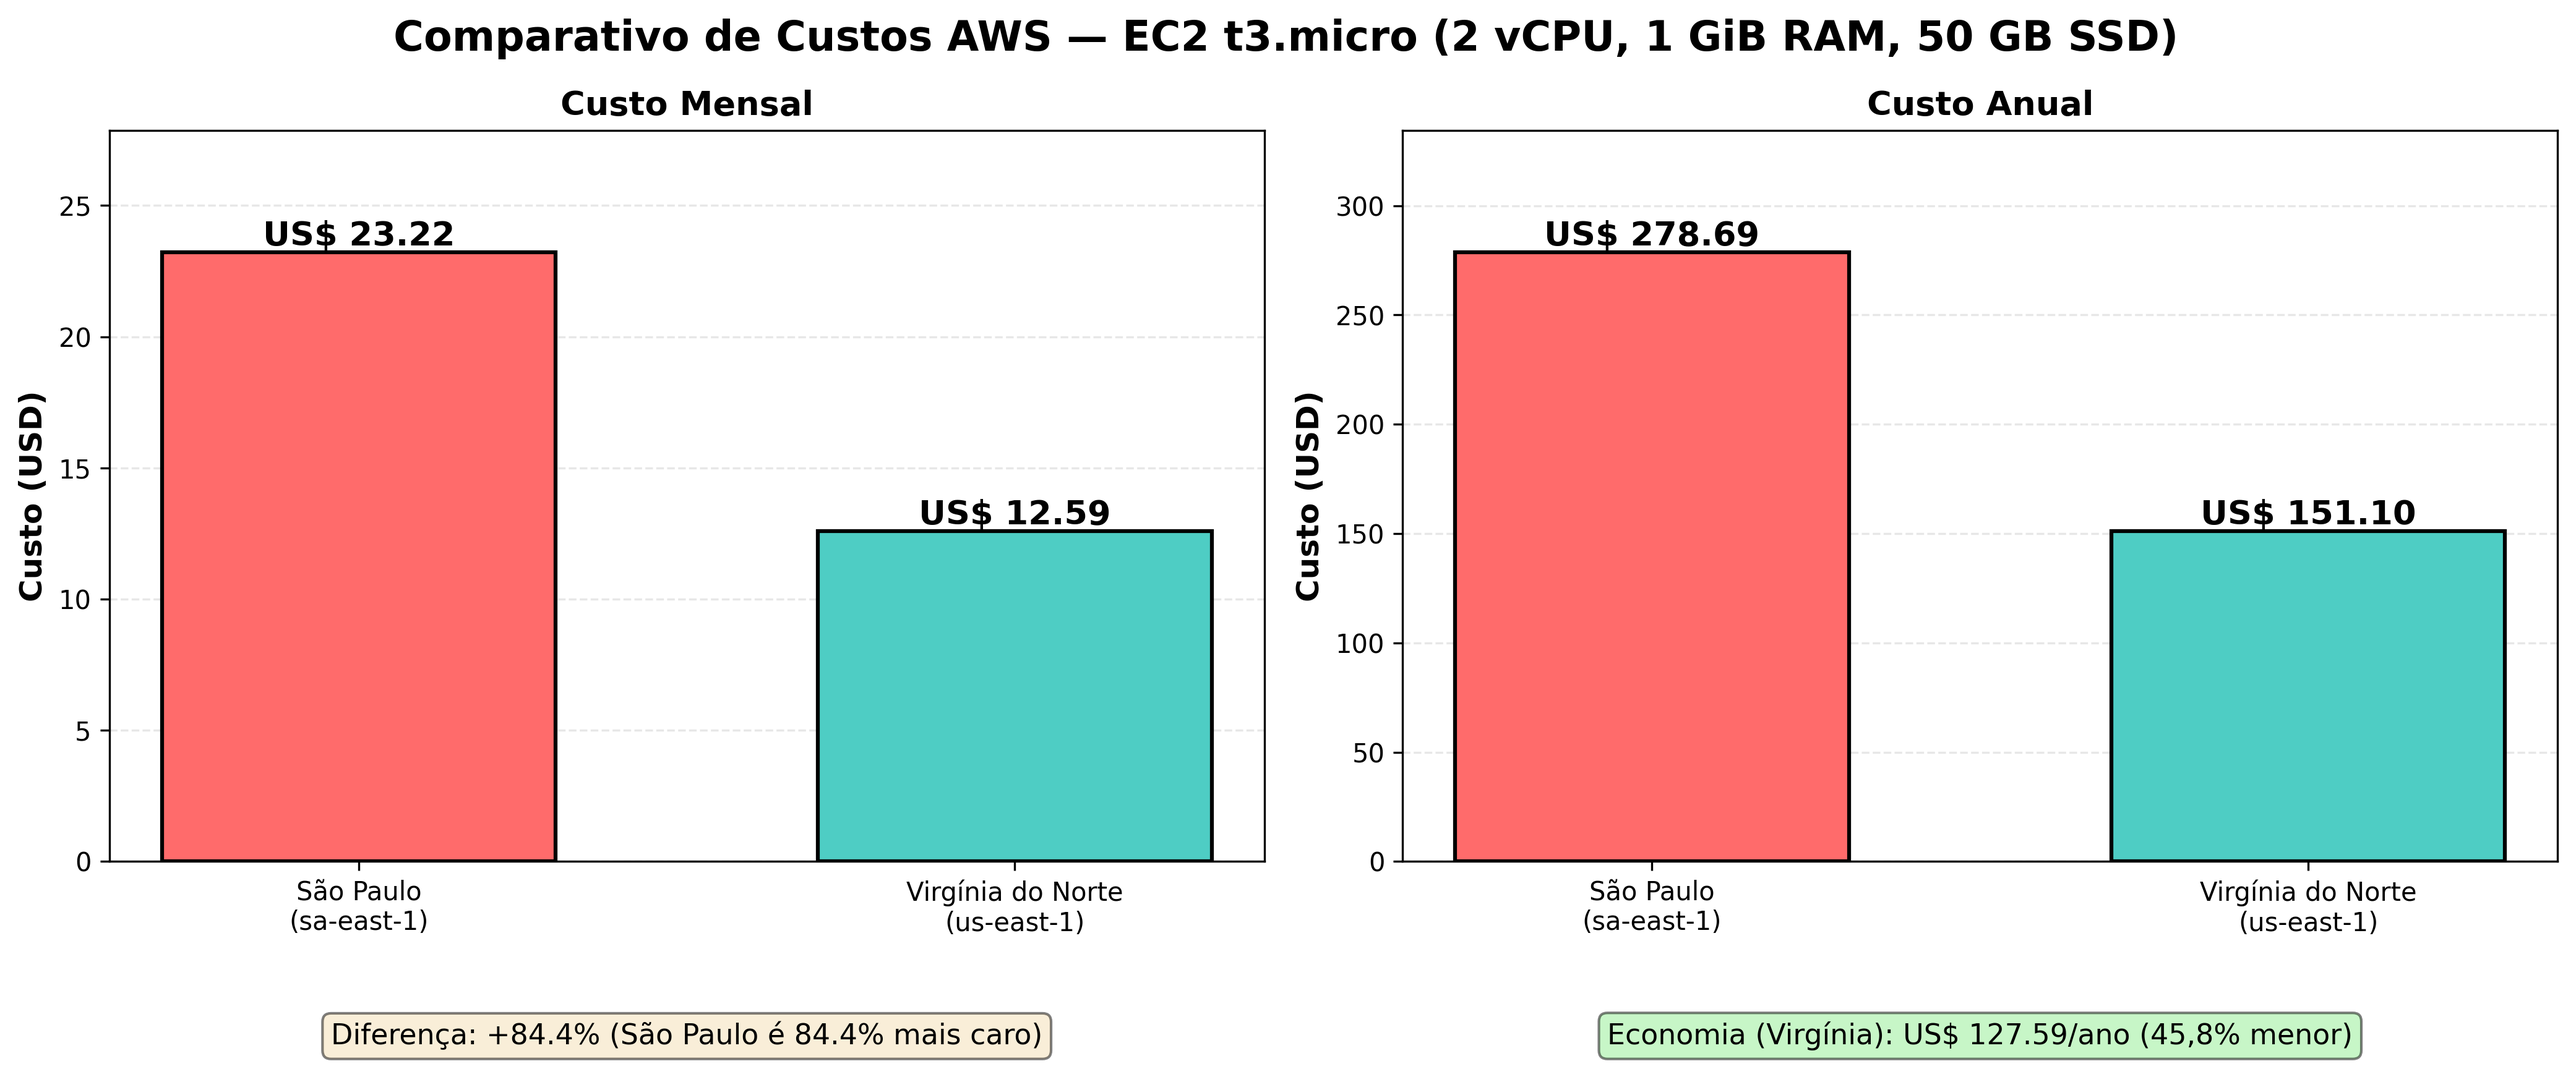
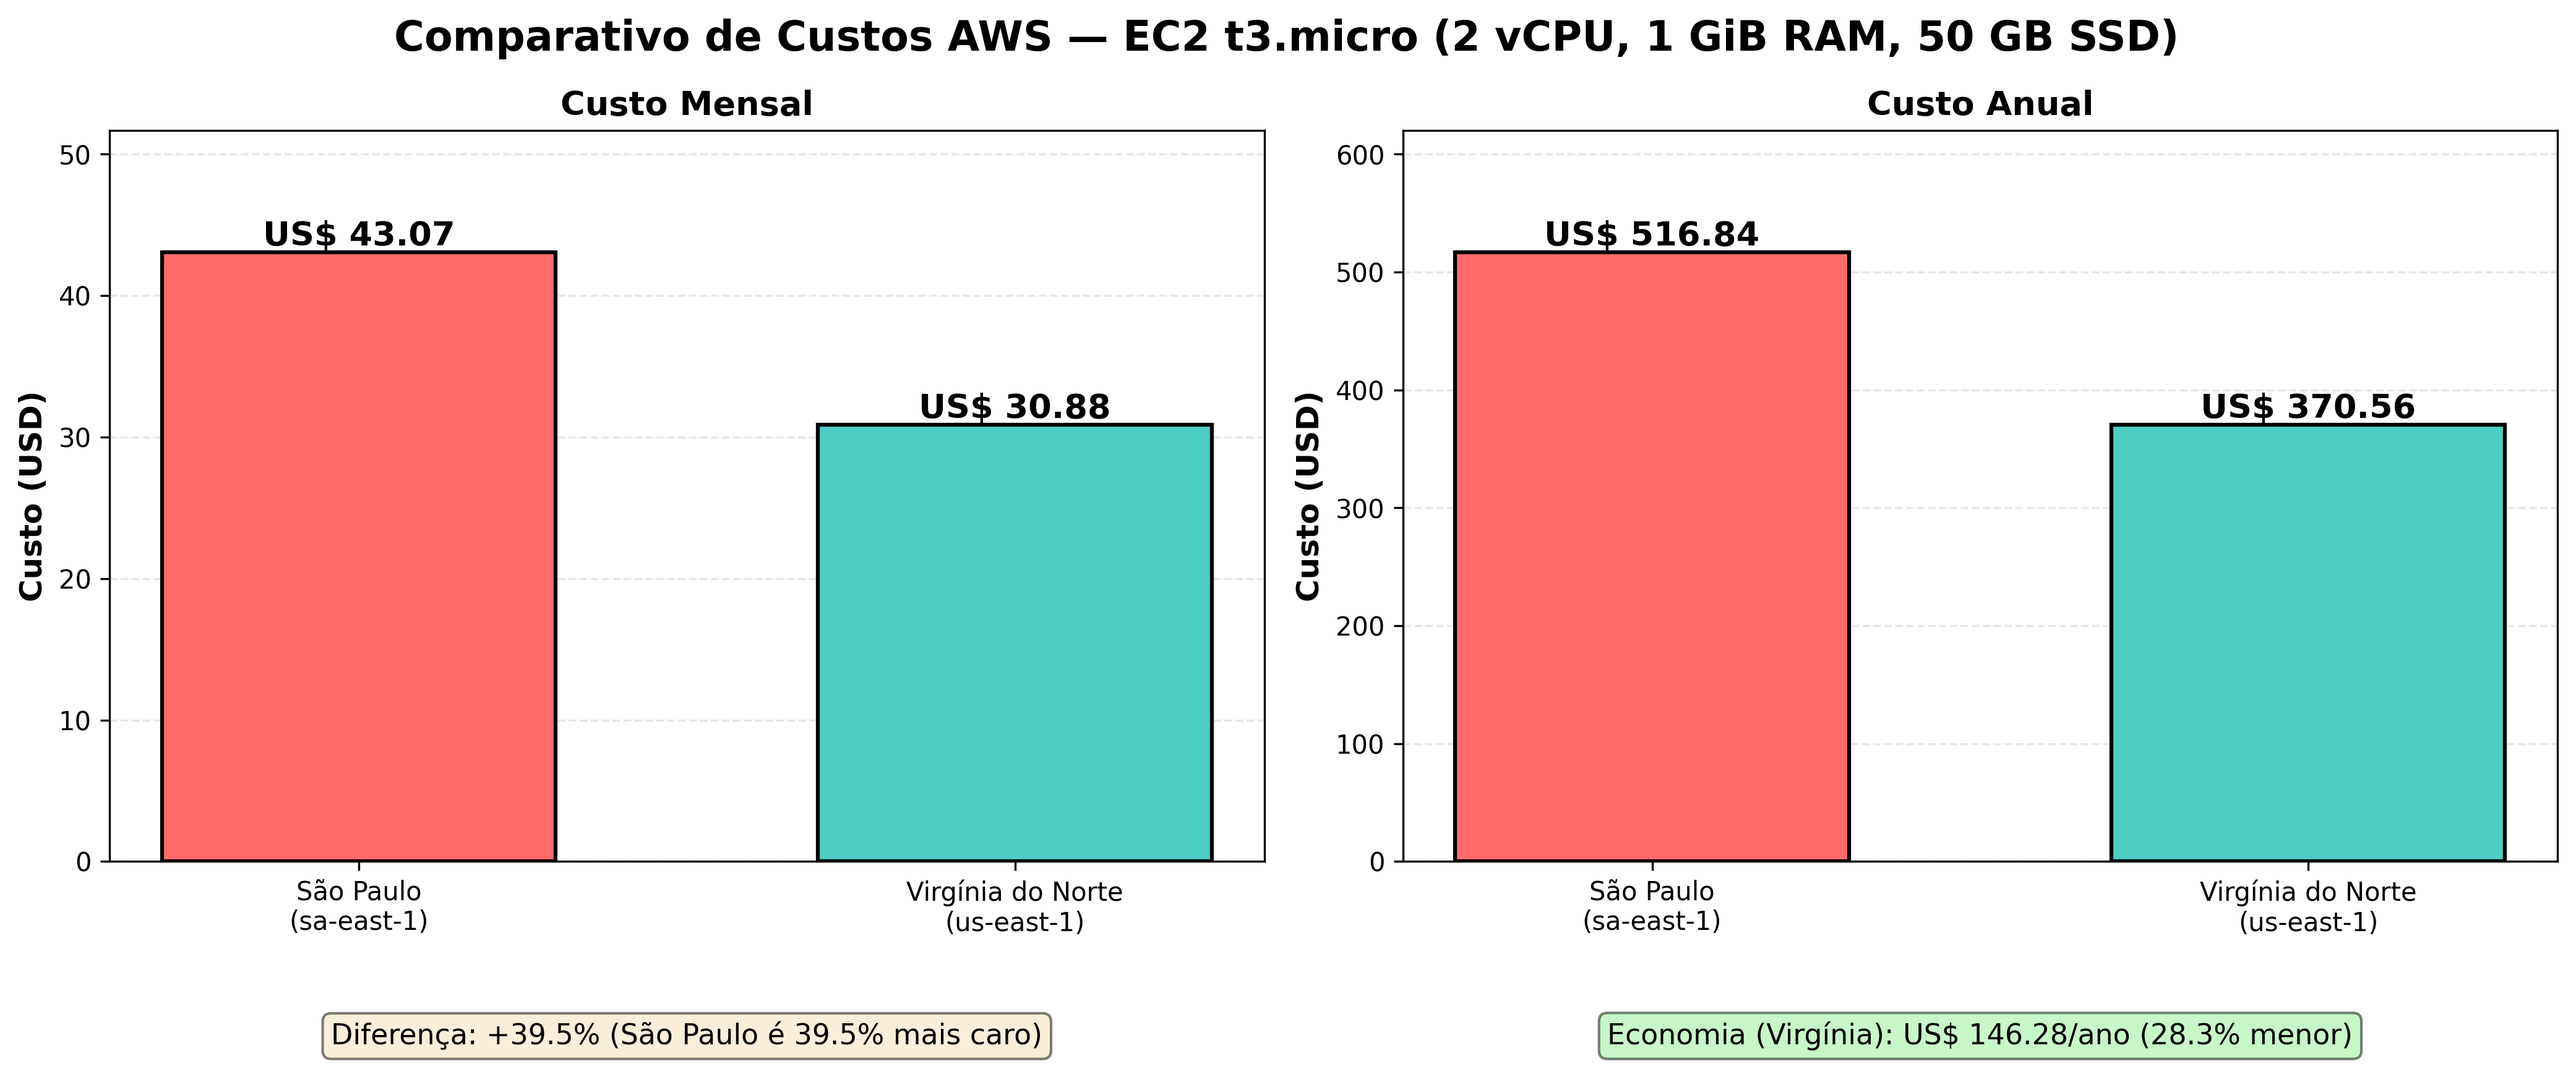
docs: atualizar comparativos AWS, link do vídeo e assets de apresentação

diff --git a/src/esp32/simulator.py b/src/esp32/simulator.py
@@ -1,0 +1,86 @@
+import json
+import random
+import time
+from datetime import datetime, timezone
+from typing import Dict, Optional, Tuple
+from urllib import error, request
+
+
+def validate_reading(data: Dict) -> Tuple[bool, Optional[str]]:
+    required = ["device_id", "timestamp", "temperatura", "umidade_ar", "umidade_solo_raw"]
+    for key in required:
+        if key not in data:
+            return False, f"campo ausente: {key}"
+
+    if not (-20 <= data["temperatura"] <= 70):
+        return False, "temperatura fora da faixa"
+    if not (0 <= data["umidade_ar"] <= 100):
+        return False, "umidade do ar fora da faixa"
+    if not (0 <= data["umidade_solo_raw"] <= 4095):
+        return False, "umidade do solo raw fora da faixa"
+
+    return True, None
+
+
+class ESP32FarmSimulator:
+    def __init__(self, device_id: str = "ESP32_FARM_001"):
+        self.device_id = device_id
+        self.sequence = 0
+
+    def read_once(self) -> Dict:
+        self.sequence += 1
+
+        payload = {
+            "device_id": self.device_id,
+            "seq": self.sequence,
+            "timestamp": datetime.now(timezone.utc).isoformat(),
+            "temperatura": round(random.uniform(18.0, 36.0), 2),
+            "umidade_ar": round(random.uniform(35.0, 95.0), 2),
+            "umidade_solo_raw": random.randint(900, 3200),
+        }
+
+        ok, error_message = validate_reading(payload)
+        payload["valid"] = ok
+        if not ok:
+            payload["error"] = error_message
+
+        return payload
+
+
+def post_json(url: str, payload: Dict, timeout: int = 10) -> Tuple[bool, str]:
+    body = json.dumps(payload).encode("utf-8")
+    req = request.Request(url=url, data=body, method="POST")
+    req.add_header("Content-Type", "application/json")
+
+    try:
+        with request.urlopen(req, timeout=timeout) as response:
+            return True, f"HTTP {response.status}"
+    except error.HTTPError as exc:
+        return False, f"HTTP {exc.code}"
+    except Exception as exc:
+        return False, f"erro: {exc}"
+
+
+def run(endpoint: str, interval_seconds: int = 10, max_readings: int = 10):
+    simulator = ESP32FarmSimulator()
+
+    print("=== Simulador ESP32 FarmTech ===")
+    print(f"Endpoint: {endpoint}")
+    print(f"Intervalo: {interval_seconds}s | Leituras: {max_readings}")
+
+    for _ in range(max_readings):
+        packet = simulator.read_once()
+        print(f"\n[Leitura {packet['seq']}] {json.dumps(packet, ensure_ascii=False)}")
+
+        if packet["valid"]:
+            ok, result = post_json(endpoint, packet)
+            print(f"Envio: {'OK' if ok else 'FALHA'} | {result}")
+        else:
+            print("Envio: ignorado (payload inválido)")
+
+        time.sleep(interval_seconds)
+
+
+if __name__ == "__main__":
+    API_ENDPOINT = "http://localhost:8000/sensores"
+    run(endpoint=API_ENDPOINT, interval_seconds=5, max_readings=5)

diff --git a/scripts/gerar_graficos_aws.py b/scripts/gerar_graficos_aws.py
@@ -9,13 +9,11 @@ Gera PNG mostrando:
 """
 
 import matplotlib.pyplot as plt
-import numpy as np
-from pathlib import Path
 
-# Dados de custos (em USD)
+# Dados de custos (em USD) extraídos dos prints da AWS Pricing Calculator
 regions = ['São Paulo\n(sa-east-1)', 'Virgínia do Norte\n(us-east-1)']
-custos_mensais = [23.22, 12.59]
-custos_anuais = [278.69, 151.10]
+custos_mensais = [43.07, 30.88]
+custos_anuais = [516.84, 370.56]
 
 # Configuração da figura
 fig, axes = plt.subplots(1, 2, figsize=(14, 6))
@@ -64,7 +62,8 @@ ax2.set_axisbelow(True)
 
 # Economia anual
 economia = custos_anuais[0] - custos_anuais[1]
-ax2.text(0.5, -0.25, f'Economia (Virgínia): US$ {economia:.2f}/ano (45,8% menor)',
+economia_pct = ((custos_anuais[0] - custos_anuais[1]) / custos_anuais[0]) * 100
+ax2.text(0.5, -0.25, f'Economia (Virgínia): US$ {economia:.2f}/ano ({economia_pct:.1f}% menor)',
          transform=ax2.transAxes, ha='center', fontsize=11,
          bbox=dict(boxstyle='round', facecolor='lightgreen', alpha=0.5))
 
@@ -84,12 +83,12 @@ ax.axis('off')
 # Dados da tabela
 table_data = [
     ['Critério', 'São Paulo (sa-east-1)', 'Virgínia do Norte (us-east-1)'],
-    ['Custo mensal', 'US$ 23.22', 'US$ 12.59 ✅'],
-    ['Custo anual', 'US$ 278.69', 'US$ 151.10 ✅'],
-    ['Economia anual', '—', 'US$ 127.59 (45.8% menor) ✅'],
-    ['Latência para Brasil', '~5 ms ✅', '~130 ms ❌'],
-    ['Conformidade LGPD', '✅ Nativa', '⚠ Requer análise'],
-    ['Soberania dos dados', '✅ Brasil', '❌ Exterior'],
+    ['Custo mensal', 'US$ 43.07', 'US$ 30.88 (menor)'],
+    ['Custo anual', 'US$ 516.84', 'US$ 370.56 (menor)'],
+    ['Economia anual', '—', 'US$ 146.28 (28.3% menor)'],
+    ['Latência para Brasil', '~5 ms (melhor)', '~130 ms (pior)'],
+    ['Conformidade LGPD', 'Nativa', 'Requer análise adicional'],
+    ['Soberania dos dados', 'Dados no Brasil', 'Dados no exterior'],
 ]
 
 # Cores para linhas alternadas

diff --git a/README.md b/README.md
@@ -56,7 +56,7 @@ Comparação entre as regiões **São Paulo (sa-east-1)** e **Virgínia do Norte
 | Entrega | Vídeo | Duração |
 |---------|-------|---------|
 | Entrega 1 — Machine Learning | [🎬 Assistir no YouTube](https://youtube.com/LINK_DO_VIDEO_1) | ≤ 5 min |
-| Entrega 2 — AWS Cloud | [🎬 Assistir no YouTube](https://youtube.com/LINK_DO_VIDEO_2) | ≤ 5 min |
+| Entrega 2 — AWS Cloud | [🎬 Assistir no YouTube](https://youtu.be/xAOtlSShT0I) | ≤ 5 min |
 
 ---
 
@@ -155,14 +155,12 @@ jupyter notebook src/PhellypeMatheusGiacoiaFlaibamMassarente_rm566826_pbl_fase4.
 |---------|:--------------------:|:-----------------------------:|
 | **Instância EC2** | `t3.micro` | `t3.micro` |
 | vCPUs / RAM | 2 vCPUs / 1 GiB | 2 vCPUs / 1 GiB |
-| **Custo EC2/hora** | US$ 0,0188 | US$ 0,0104 |
-| **Custo EC2/mês** (730h) | US$ 13,72 | US$ 7,59 |
-| **Armazenamento EBS** 50 GB (HDD gp2) | US$ 9,50 | US$ 5,00 |
-| **Total mensal** | **US$ 23,22** | **US$ 12,59** |
-| **Total anual** | **US$ 278,69** | **US$ 151,10** |
-| **Economia anual** (vs SP) | — | 🟢 US$ 127,59 (45,8% menor) |
+| **Custo inicial** | US$ 0,00 | US$ 0,00 |
+| **Total mensal** (AWS Calculator) | **US$ 43,07** | **US$ 30,88** |
+| **Total anual** (12 months) | **US$ 516,84** | **US$ 370,56** |
+| **Economia anual** (vs SP) | — | 🟢 US$ 146,28 (28,3% menor) |
 
-> **Fonte:** AWS Pricing — EC2 On-Demand Linux, instância `t3.micro` (2 vCPU, 1 GiB RAM), armazenamento EBS gp2 50 GB, 100% utilização mensal (730 horas).
+> **Fonte:** Capturas da AWS Pricing Calculator em `assets/AWS São Paulo (BR).png` e `assets/AWS Virgínia do Norte (EUA).png` (estimativa com Amazon EC2 na calculadora).
 
 <p align="center">
   <img src="assets/tabela_comparativa_aws.png" alt="Tabela Comparativa de Custos AWS" width="90%">
@@ -178,7 +176,7 @@ jupyter notebook src/PhellypeMatheusGiacoiaFlaibamMassarente_rm566826_pbl_fase4.
 
 #### 💰 Qual a solução mais barata?
 
-A região **Virgínia do Norte (us-east-1)** é **45,8% mais barata**: US$ 12,59/mês vs US$ 23,22/mês de São Paulo — uma economia de **US$ 127,59/ano**. Isso ocorre porque:
+A região **Virgínia do Norte (us-east-1)** é **28,3% mais barata**: US$ 30,88/mês vs US$ 43,07/mês de São Paulo — uma economia de **US$ 146,28/ano**. Isso ocorre porque:
 - A AWS opera data centers na Virgínia desde 2006 com infraestrutura altamente consolidada e custos operacionais menores.
 - A região us-east-1 tem o maior volume de clientes AWS do mundo, diluindo os custos fixos de operação.
 - O Brasil enfrenta custos mais altos de energia, impostos sobre importação de equipamentos e infraestrutura de conectividade.
@@ -187,7 +185,7 @@ A região **Virgínia do Norte (us-east-1)** é **45,8% mais barata**: US$ 12,59
 
 | Critério | São Paulo (sa-east-1) | Virgínia do Norte (us-east-1) |
 |----------|:---------------------:|:-----------------------------:|
-| Custo mensal | US$ 23,22 | US$ 12,59 ✅ |
+| Custo mensal | US$ 43,07 | US$ 30,88 ✅ |
 | Latência para sensores no Brasil | ~5 ms ✅ | ~130 ms ❌ |
 | Conformidade LGPD | ✅ Nativa | ⚠ Requer análise |
 | Soberania dos dados | ✅ Dados no Brasil | ❌ Dados no exterior |
@@ -201,12 +199,12 @@ A região **Virgínia do Norte (us-east-1)** é **45,8% mais barata**: US$ 12,59
 
 #### ✅ Decisão Final: **São Paulo (sa-east-1)**
 
-Apesar do custo 45,8% superior, a região São Paulo é a escolha **tecnicamente e legalmente recomendada** para este projeto, pelos seguintes motivos:
+Apesar do custo 39,5% superior, a região São Paulo é a escolha **tecnicamente e legalmente recomendada** para este projeto, pelos seguintes motivos:
 
 - **Conformidade LGPD nativa** — sem necessidade de mecanismos jurídicos adicionais para transferência internacional de dados.
 - **Latência mínima** (~5 ms) — essencial para o processamento em tempo real dos dados dos sensores IoT no campo.
 - **Soberania dos dados agrícolas** — informações estratégicas da fazenda permanecem sob jurisdição brasileira.
-- **Custo adicional justificado** — a diferença de US$ 127,59/ano (~R$ 640/ano) é insignificante frente ao custo de adequação regulatória e ao risco operacional de alta latência.
+- **Custo adicional justificado** — a diferença de US$ 146,28/ano é aceitável frente ao custo de adequação regulatória e ao risco operacional de alta latência.
 
 > **Regra prática:** use us-east-1 para workloads puramente globais sem dados sensíveis; use sa-east-1 quando latência para usuários brasileiros e conformidade LGPD forem requisitos.
 

diff --git a/BACKLOG.md b/BACKLOG.md
@@ -387,11 +387,14 @@
 
 | ID | Task | Responsável | Estimativa | Status |
 |----|------|-------------|------------|--------|
-| T-05.3.1 | Montar roteiro do vídeo (calculadora → SP vs Virgínia → justificativa) | — | 20 min | ⬜ A fazer |
-| T-05.3.2 | Gravar tela + narração (≤ 5 min) | — | 45 min | ⬜ A fazer |
-| T-05.3.3 | Editar vídeo se necessário | — | 20 min | ⬜ A fazer |
-| T-05.3.4 | Upload no YouTube como "não listado" | — | 10 min | ⬜ A fazer |
-| T-05.3.5 | Adicionar link do vídeo no README.md | — | 5 min | ⬜ A fazer |
+| T-05.3.1 | Montar roteiro do vídeo (calculadora → SP vs Virgínia → justificativa) | — | 20 min | ✅ Feito |
+| T-05.3.2 | Gravar tela + narração (≤ 5 min) | — | 45 min | ✅ Feito |
+| T-05.3.3 | Editar vídeo se necessário | — | 20 min | ✅ Feito |
+| T-05.3.4 | Upload no YouTube como "não listado" | — | 10 min | ✅ Feito |
+| T-05.3.5 | Adicionar link do vídeo no README.md | — | 5 min | ✅ Feito |
+
+**Atualização US-05.3 (17/03/2026):**
+- Link do vídeo AWS Cloud: https://youtu.be/xAOtlSShT0I
 
 ---
 
